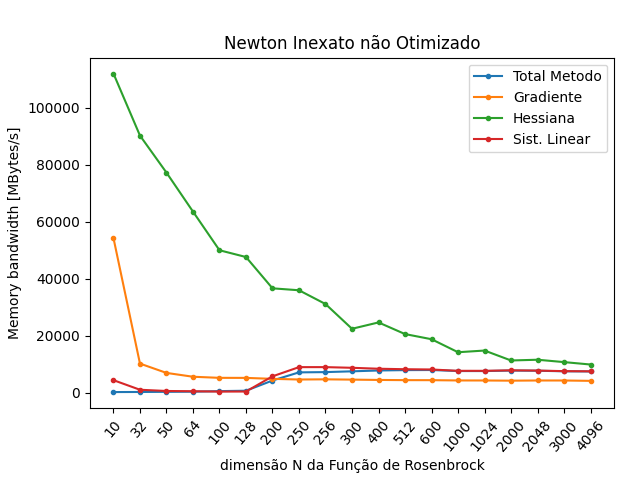
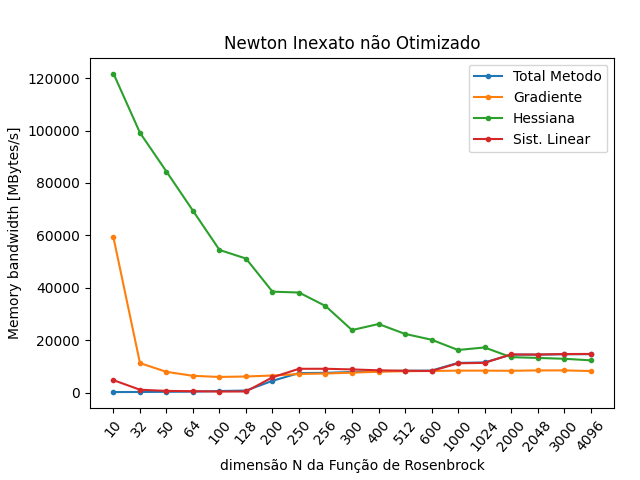
fix L3 metric

diff --git a/Trab2/extractinfo.py b/Trab2/extractinfo.py
@@ -69,7 +69,7 @@ def parse_LOG(csv_file, padrao_file, inexat_file, line_of_interest):
 # """
 
 def parse_L3(csv_in, padrao_out, inexat_out):
-    parse_LOG(csv_in, padrao_out, inexat_out, 6)
+    parse_LOG(csv_in, padrao_out, inexat_out, 10)
                     
 def parse_L2(csv_in, padrao_out, inexat_out):
     parse_LOG(csv_in, padrao_out, inexat_out, 8)
